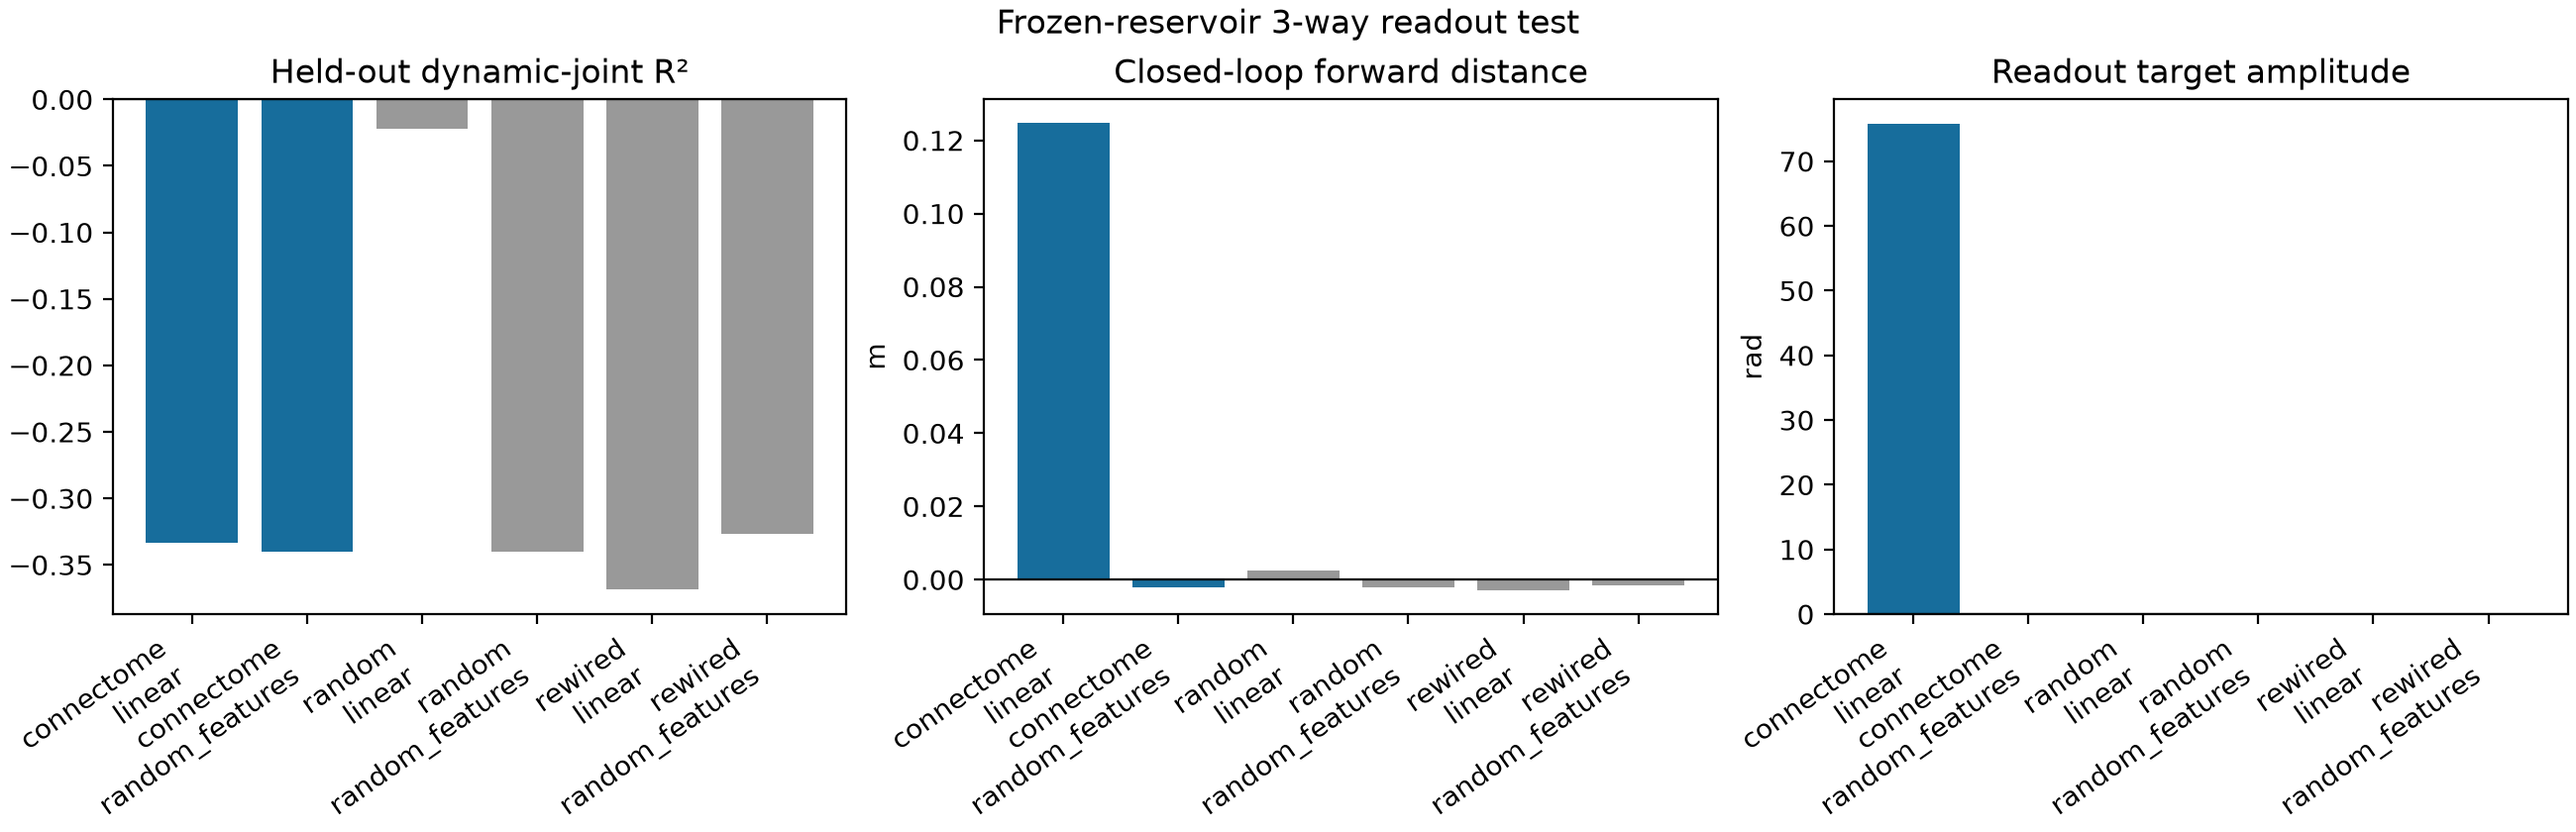
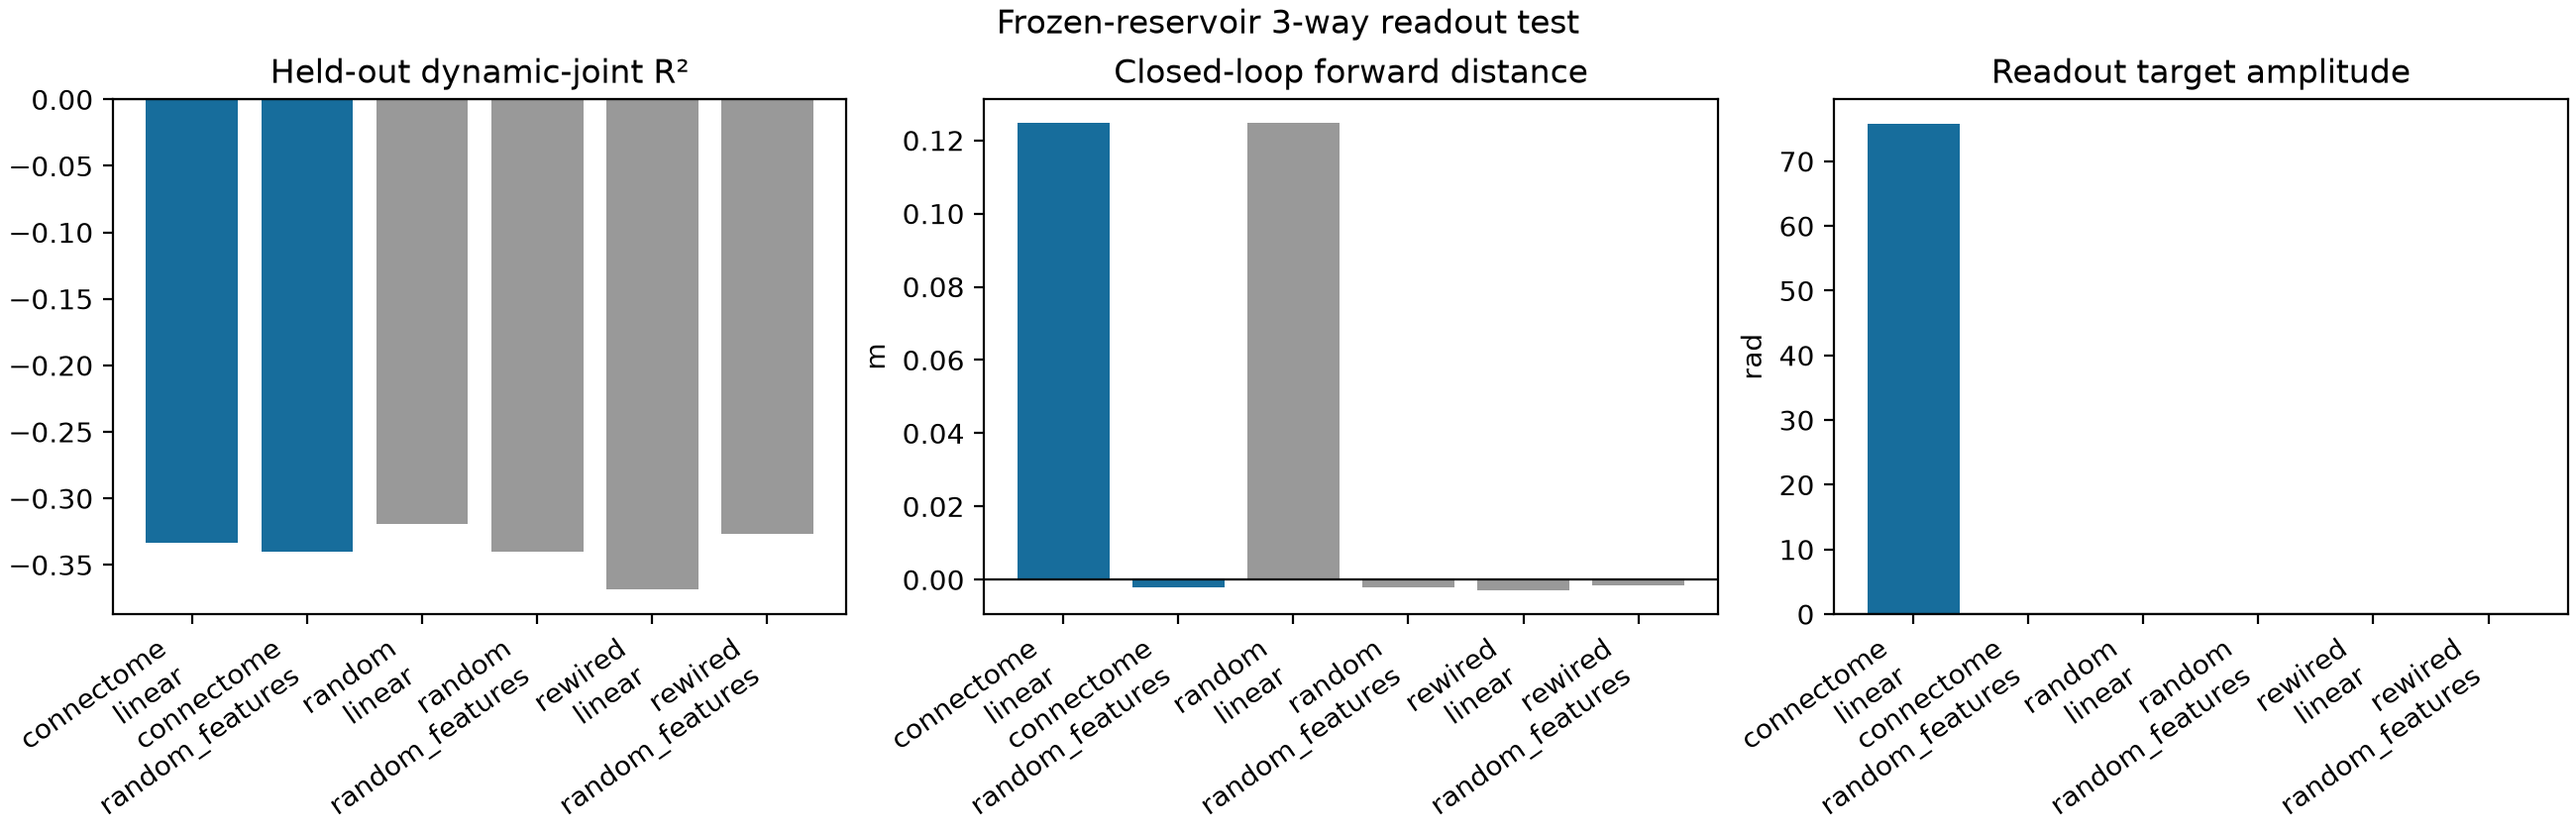
Path 2: correct random-weight reservoir control

Changed region(s): [[0.4673, 0.1238, 0.5296, 0.7119], [0.1246, 0.1548, 0.1869, 0.65]]

diff --git a/eon-fly-brain/code/reservoir_3way.py b/eon-fly-brain/code/reservoir_3way.py
@@ -30,6 +30,7 @@ from run_reservoir_walk import run_episode  # noqa: E402
 CONDITIONS = ("connectome", "random", "rewired")
 GENERALIZATION_DRIVE = 90.0
 EFFECTIVE_R2_TARGET = 0.8
+RANDOM_WEIGHT_SEED = 20260829
 REWIRE_SEED = 20260829
 
 
@@ -78,11 +79,29 @@ def degree_preserving_rewire(weight: torch.Tensor, seed: int = REWIRE_SEED) -> t
     return rewired
 
 
+def randomize_weights(weight: torch.Tensor, seed: int = RANDOM_WEIGHT_SEED) -> torch.Tensor:
+    """Permute signed edge weights on the fixed sparse degree structure."""
+    weight = weight.to_sparse_csr().cpu()
+    values = weight.values().numpy().copy()
+    np.random.default_rng(seed).shuffle(values)
+    randomized = torch.sparse_csr_tensor(
+        weight.crow_indices(),
+        weight.col_indices(),
+        torch.from_numpy(values),
+        size=weight.shape,
+    )
+    assert randomized._nnz() == weight._nnz()
+    assert torch.equal(randomized.crow_indices(), weight.crow_indices())
+    assert torch.equal(randomized.col_indices(), weight.col_indices())
+    assert np.array_equal(np.sort(values), np.sort(weight.values().numpy()))
+    return randomized
+
+
 def condition_stepper(data: Path, weights_name: str, index_name: str, condition: str):
-    if condition == "random":
-        return make_stepper(data, weights_name, index_name, shuffle=True)
     vnc = make_stepper(data, weights_name, index_name)
-    if condition == "rewired":
+    if condition == "random":
+        vnc.W = randomize_weights(vnc.W).to(vnc.device)
+    elif condition == "rewired":
         vnc.W = degree_preserving_rewire(vnc.W).to(vnc.device)
     return vnc
 
@@ -208,7 +227,7 @@ def main() -> None:
         "reason": "Neither linear nor single allowed nonlinear readout produced a visible or kinematically material walk; phase score occurred at collapsed amplitude.",
         "conditions": {
             "connectome": "real frozen signed MANC CSR",
-            "random": "existing seeded presynaptic-column permutation; exact size/row degree and global out-degree distribution matched; seed 1",
+            "random": "seeded permutation of signed edge weights on the fixed graph; exact size, degree structure, and empirical weight multiset matched; seed 20260829",
             "rewired": "one successful directed endpoint swap per edge; exact per-node in/out degree and weight multiset preserved; seed 20260829",
         },
         "identical_procedure": True,

diff --git a/PATH2_METHODS.md b/PATH2_METHODS.md
@@ -290,13 +290,14 @@ walk. The synchronized 8 s, 1280×960, four-view escalation video is
 ### R3 three-way prior gate
 
 All conditions used identical drive, burn-in, template, split, λ grid,
-heterogeneity, ridge procedure, body, and steering. `random` uses the existing
-seed-1 presynaptic-column permutation, matching graph size, every row degree,
-and the global out-degree distribution. `rewired` performs one successful
-directed endpoint swap per edge (seed `20260829`), preserving every node's
-in/out degree and the exact weight multiset. Generalization used a declared
-held-out tonic drive of 90. Effective rank was the number of descending kernel
-modes needed to reach fixed dynamic-channel held-out R² `0.8`.
+heterogeneity, ridge procedure, body, and steering. `random` keeps the exact
+sparse graph and permutes its signed edge weights with seed `20260829`, so its
+size, degree structure, and empirical weight multiset match the connectome.
+`rewired` performs one successful directed endpoint swap per edge (seed
+`20260829`), preserving every node's in/out degree and the exact weight
+multiset. Generalization used a declared held-out tonic drive of 90. Effective
+rank was the number of descending kernel modes needed to reach fixed
+dynamic-channel held-out R² `0.8`.
 
 | reservoir | readout | held-out R², all | held-out R², dynamic | effective rank to .8 | drive-90 dynamic R² | forward (m) | path (m) | target SD (rad) |
 |---|---|---:|---:|---:|---:|---:|---:|---:|

diff --git a/HANDOFF.md b/HANDOFF.md
@@ -193,8 +193,8 @@ this fixed model/body resolution.
 Outcome B reservoir pivot is complete. R0 collected 3,000 post-burn full-VNC
 states; R1 fit only closed-form ridge `W_out` to the fixed Path-1 template;
 R2 deployed linear and one permitted 64-unit fixed-random-feature escalation;
-R3 compared connectome, seeded column-permuted random, and exact
-degree-preserving rewired reservoirs. No readout reached dynamic held-out
+R3 compared connectome, seeded random-weight, and exact degree-preserving
+rewired reservoirs. No readout reached dynamic held-out
 R² 0.8 or produced a stable tripod walk. The gate verdict is `READOUT TOO
 WEAK`; final claim remains withheld pending approval.
 

diff --git a/eon-fly-brain/README.md b/eon-fly-brain/README.md
@@ -2,8 +2,8 @@
 
 ## Path 2 current result
 
-Whole-brain FlyWire → official Male CNS VNC → fixed motor map → MuJoCo
-hexapod, with zero learning. All 212 current-v1.0 T1/T2/T3 cells matching
+Baseline: whole-brain FlyWire → official Male CNS VNC → fixed motor map →
+MuJoCo hexapod, with zero learning. All 212 current-v1.0 T1/T2/T3 cells matching
 the published leg-coordination candidate rule are included, including the two
 `IN12B013` T1 cells. E0–E4 are exhausted: the expanded graph, structured
 descending drive, and fixed anatomical proprioceptive feedback still lack

diff --git a/README.md b/README.md
@@ -15,7 +15,9 @@ prey -> FlyWire brain -> DNg100/DNb08 -> real MANC VNC
      -> fixed motor map -> PD torque -> MuJoCo PhantomX hexapod
 ```
 
-No learning, reward, fitting, target trajectory, or performance-based tuning.
+The baseline chain above uses no learning, reward, fitting, target trajectory,
+or performance-based tuning. Outcome B is separate: it fits only one frozen-
+VNC readout matrix, with the result recorded below.
 
 ## Current numbers
 
